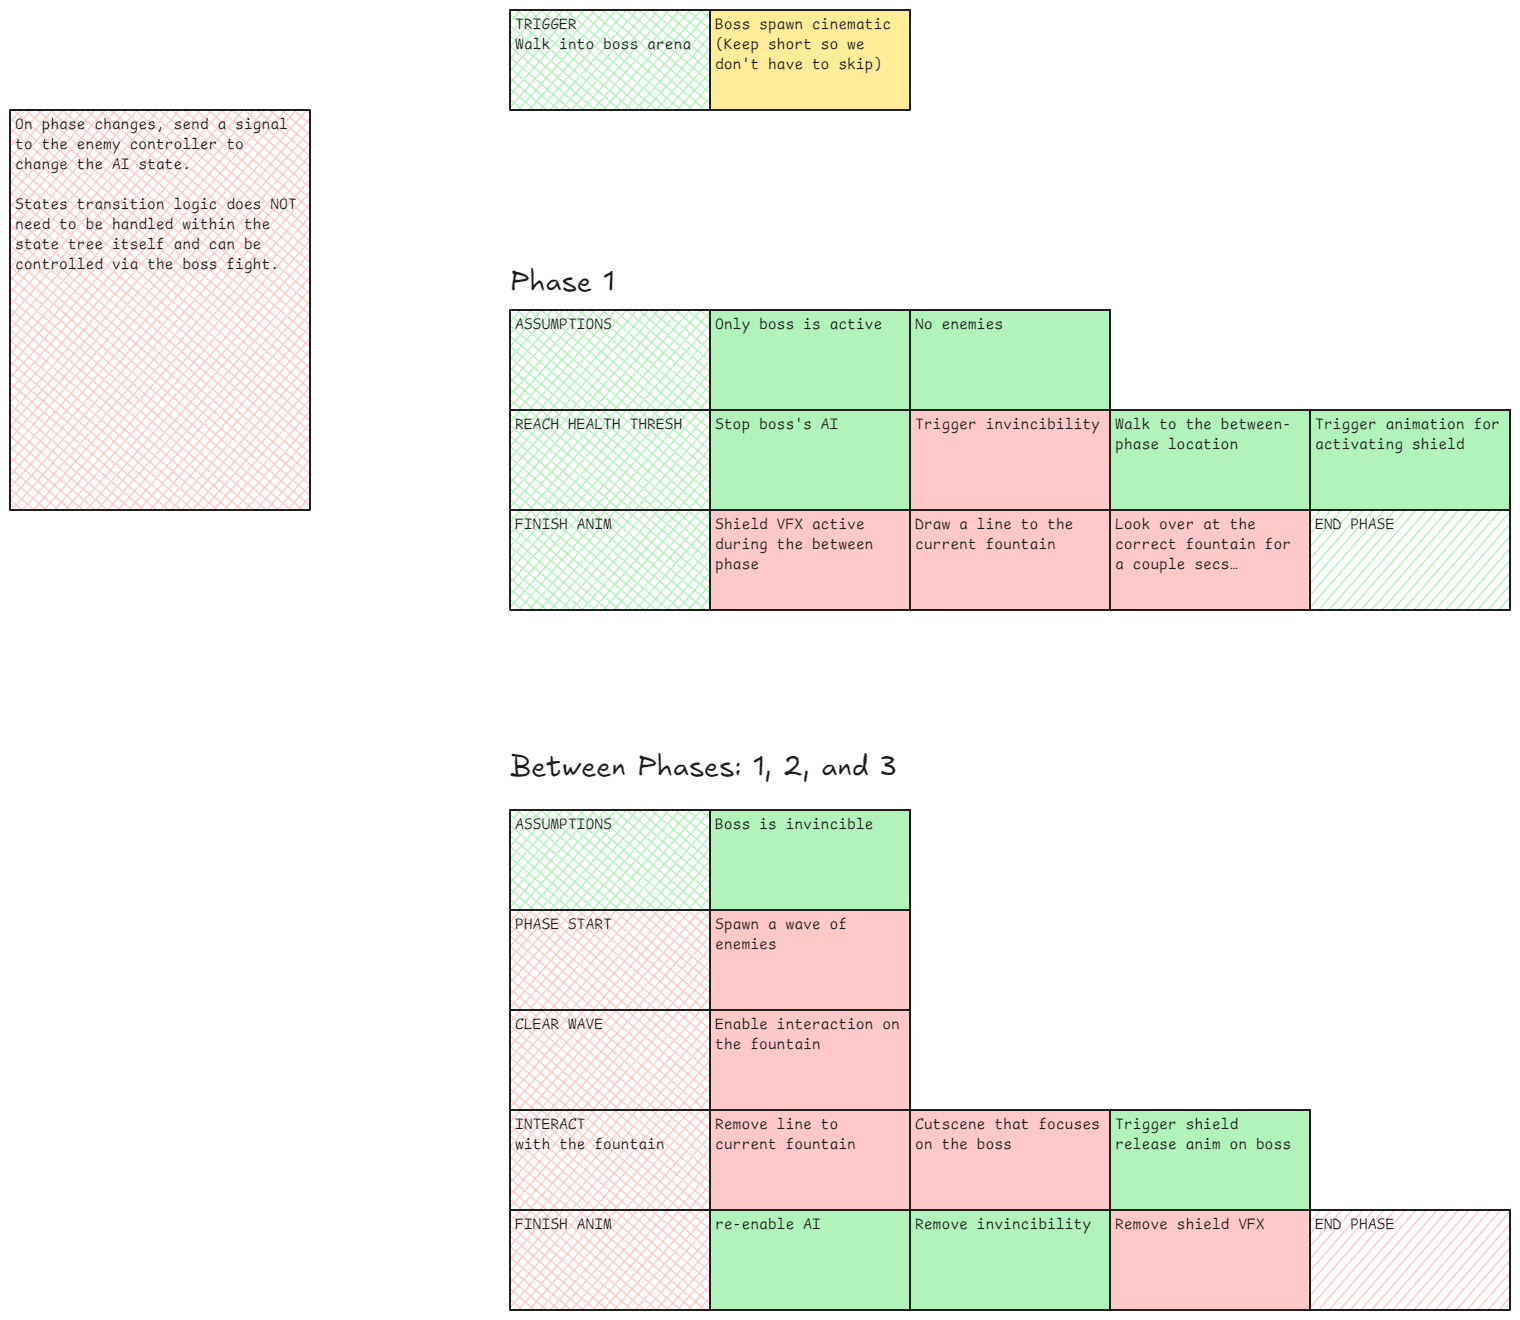
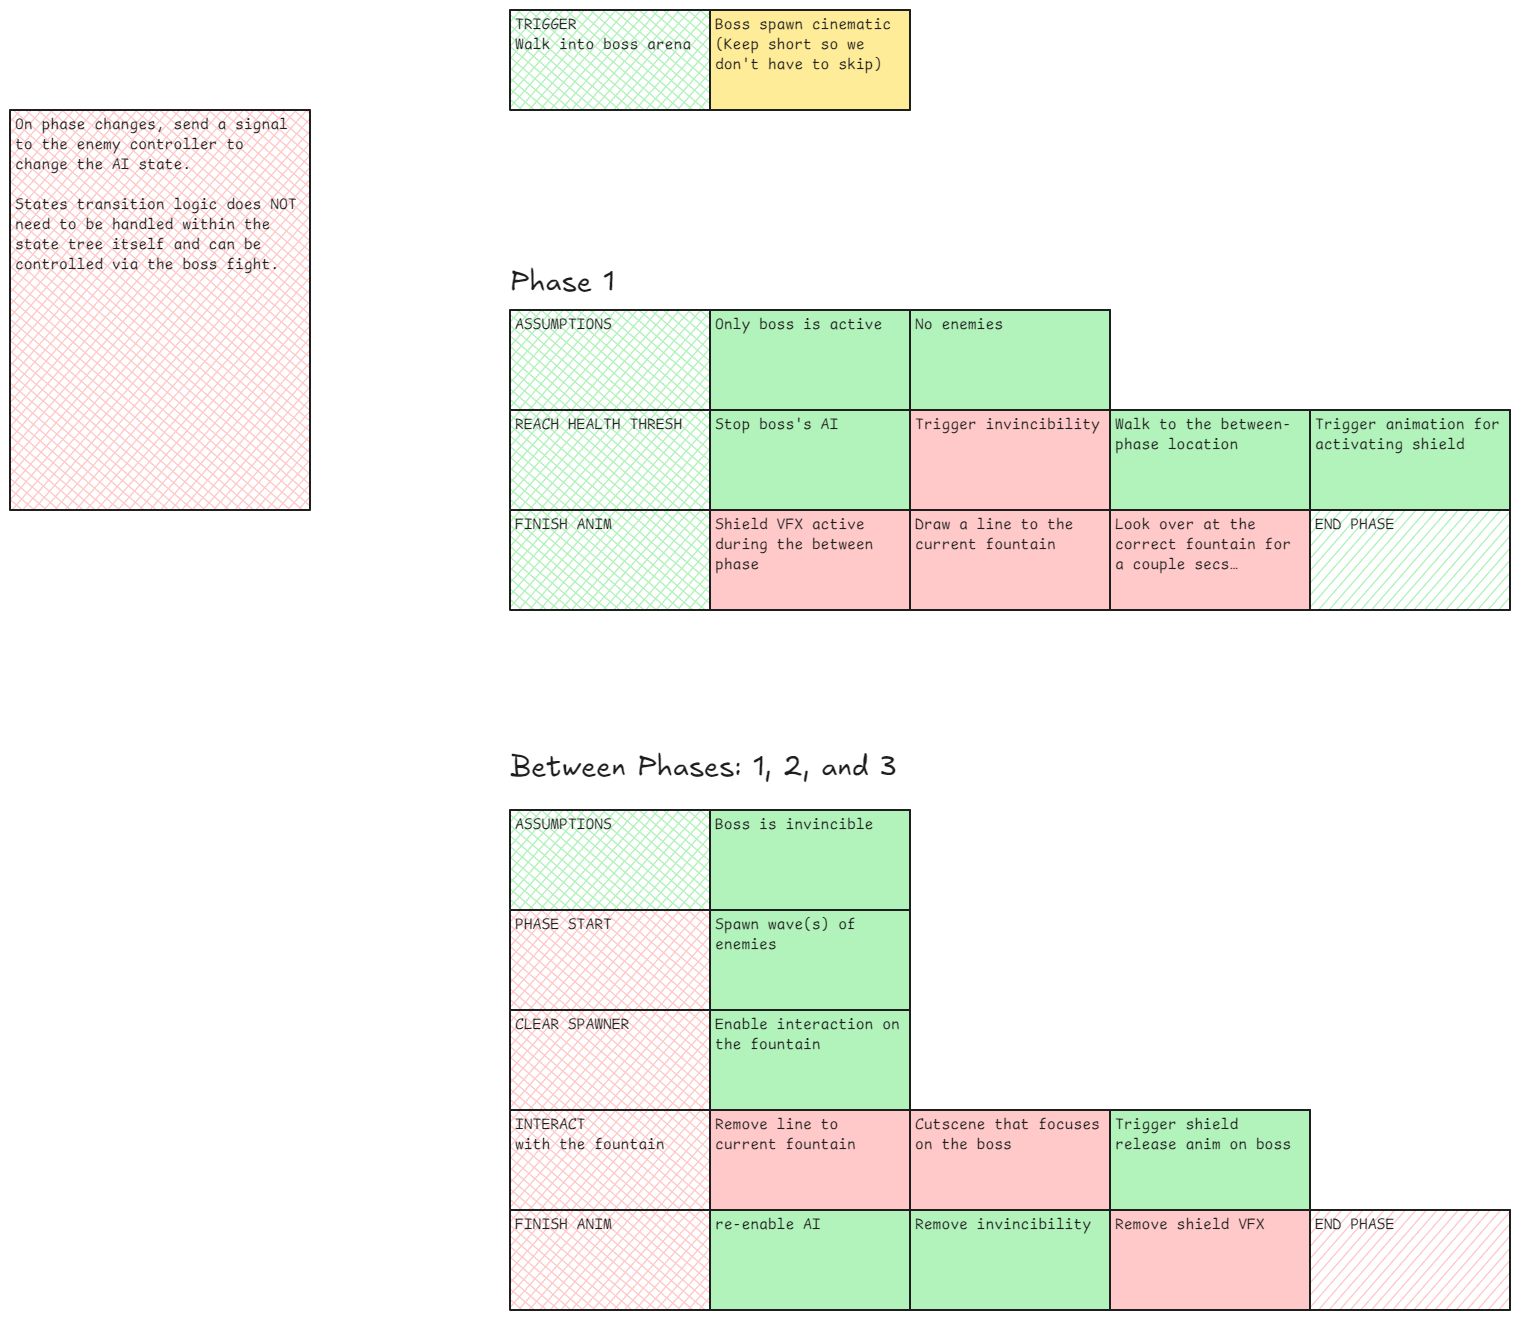
vault backup: 2026-08-10 19:52:10

Changed region(s): [[0.4638, 0.6833, 0.6184, 0.8386], [0.3711, 0.7455, 0.402, 0.7765]]

diff --git a/Projects/Summer Project/Mechanics/Boss/Boss01 Graph.md b/Projects/Summer Project/Mechanics/Boss/Boss01 Graph.md
@@ -35,7 +35,7 @@ Shield VFX active during the between phase ^ib1Y1nDE
 INTERACT
 with the fountain ^TqJ1gvUO
 
-CLEAR WAVE ^BxQrUgL1
+CLEAR SPAWNER ^BxQrUgL1
 
 Enable interaction on the fountain ^VEtp2mLb
 
@@ -69,7 +69,7 @@ No enemies ^lCbAq8yP
 
 Boss is invincible ^ZVCyfWzu
 
-Spawn a wave of enemies ^lYSnM2SD
+Spawn wave(s) of enemies ^lYSnM2SD
 
 re-enable AI ^vEOzhlKA
 
@@ -144,110 +144,110 @@ wPUtOqIKVU8RjcIYkDOA5DSS+VpBgEwBBD/GBBjx4FYjiWIFLB4A4FsjqGTZ83HsENtQJ2C24FZjpcvu
 
[1 lines of base64/hex data omitted]
 
[2 lines of base64/hex data omitted]
 
[2 lines of base64/hex data omitted]
 
[2 lines of base64/hex data omitted]
 
[2 lines of base64/hex data omitted]
 
[2 lines of base64/hex data omitted]
 
[2 lines of base64/hex data omitted]
 
[2 lines of base64/hex data omitted]
 
[2 lines of base64/hex data omitted]
 
[2 lines of base64/hex data omitted]
 
[2 lines of base64/hex data omitted]
 
[2 lines of base64/hex data omitted]
 
[2 lines of base64/hex data omitted]
 
[2 lines of base64/hex data omitted]
 
[2 lines of base64/hex data omitted]
 
[2 lines of base64/hex data omitted]
 
[2 lines of base64/hex data omitted]
 
[2 lines of base64/hex data omitted]
 
[2 lines of base64/hex data omitted]
 
[2 lines of base64/hex data omitted]
 
[2 lines of base64/hex data omitted]
 
[2 lines of base64/hex data omitted]
 
[2 lines of base64/hex data omitted]
 
[2 lines of base64/hex data omitted]
 
[2 lines of base64/hex data omitted]
 
[2 lines of base64/hex data omitted]
 
[2 lines of base64/hex data omitted]
 
[2 lines of base64/hex data omitted]
 
[2 lines of base64/hex data omitted]
 
[2 lines of base64/hex data omitted]
 
[2 lines of base64/hex data omitted]
 
[2 lines of base64/hex data omitted]
 
[2 lines of base64/hex data omitted]
 
[2 lines of base64/hex data omitted]
 
[2 lines of base64/hex data omitted]
 
[2 lines of base64/hex data omitted]
 
[2 lines of base64/hex data omitted]
 
[2 lines of base64/hex data omitted]
 
[2 lines of base64/hex data omitted]
 
[2 lines of base64/hex data omitted]
 
[2 lines of base64/hex data omitted]
 
[2 lines of base64/hex data omitted]
 
[2 lines of base64/hex data omitted]
 
[2 lines of base64/hex data omitted]
 
[2 lines of base64/hex data omitted]
 
[2 lines of base64/hex data omitted]
 
[2 lines of base64/hex data omitted]
 
[2 lines of base64/hex data omitted]
 
[2 lines of base64/hex data omitted]
 
[2 lines of base64/hex data omitted]
 
[2 lines of base64/hex data omitted]
 
[2 lines of base64/hex data omitted]
 
[2 lines of base64/hex data omitted]
 
-vOS9lHYmAJjnBAy4kDkNQ7FFQzUq5vsEDGgwAJTDyQQAA===
[1 lines of base64/hex data omitted]
 ```
 %%
